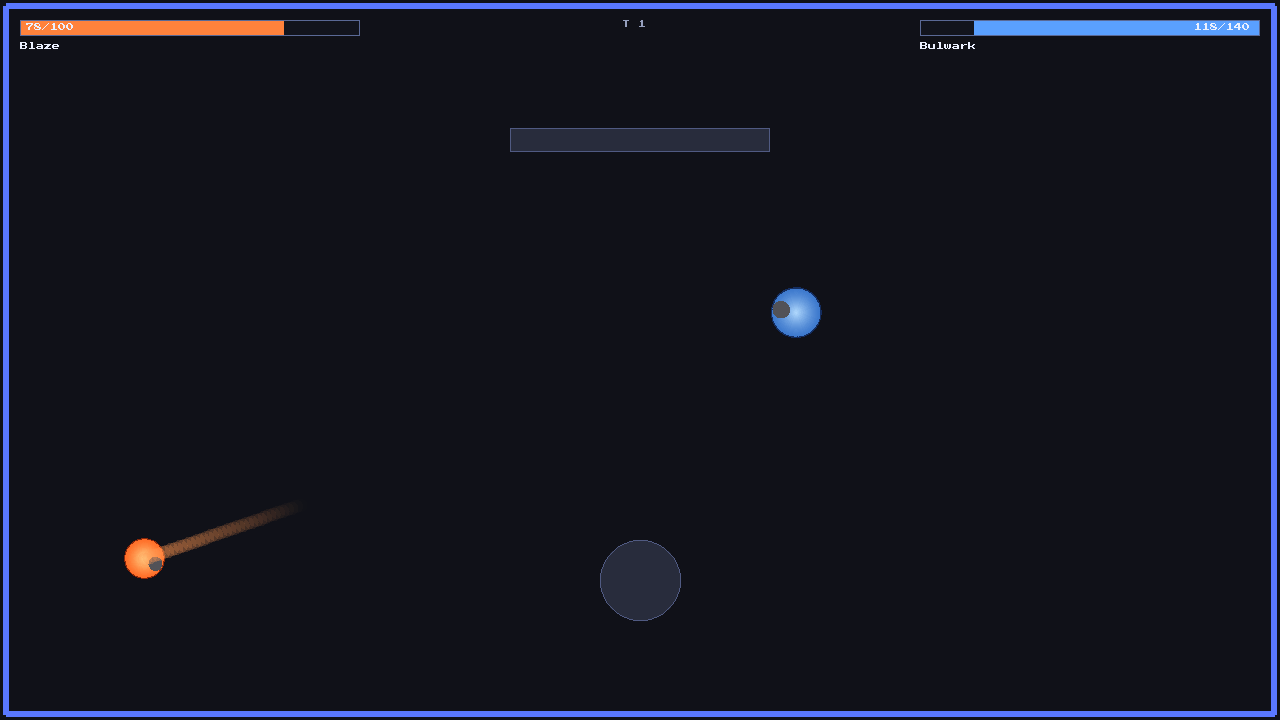
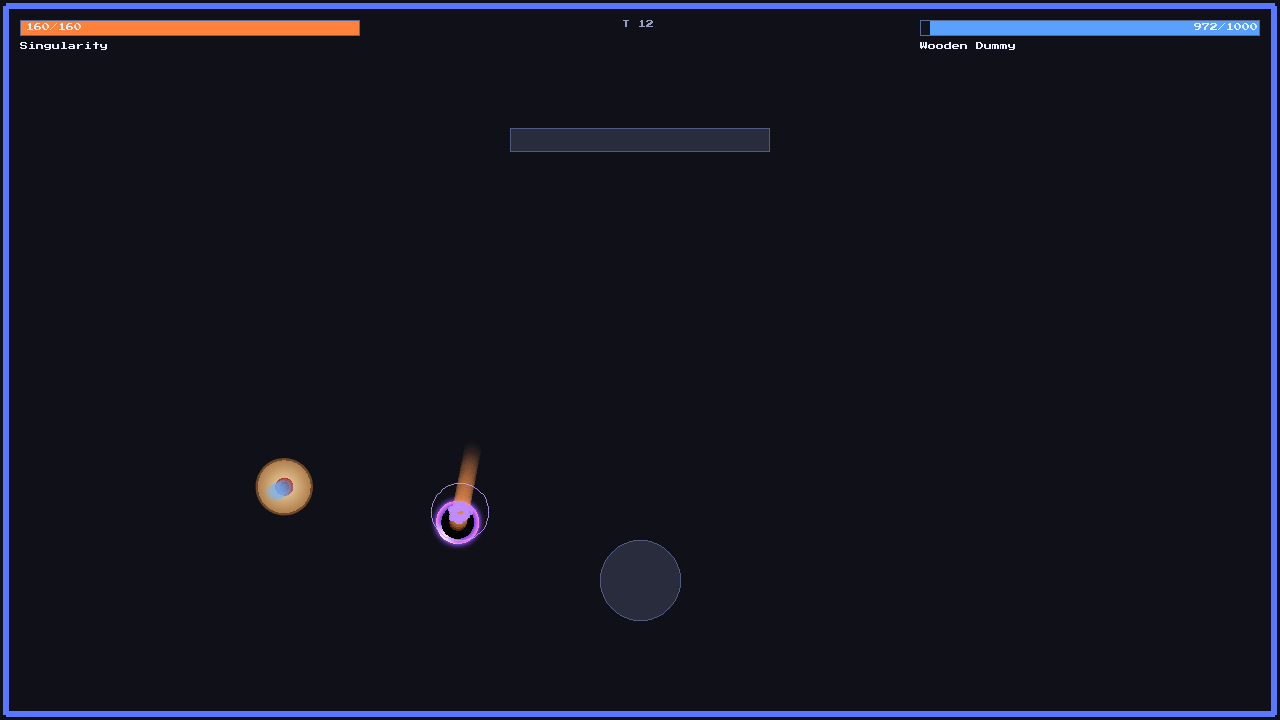
docs: record the black hole checks
CONTENT_FORMAT 补 gravity / omnipull / hitbox.ghost；STATUS 加验证记录
（18 项探针、48 s headless、三张截图）；README 补三个角色的现状与 --shot-at；
docs/screenshot.png 换成黑洞对局。

diff --git a/docs/STATUS.md b/docs/STATUS.md
@@ -39,9 +39,10 @@
 .\build\bin\orbduel.exe                 # 开主菜单（点开始游戏 / 按 Enter 进对局）
 .\build\bin\orbduel.exe --no-menu       # 跳过菜单直接开局
 .\build\bin\orbduel.exe --seed 42       # 固定随机种子，可复现
-.\build\bin\orbduel.exe --char lancer --enemy bulwark --map duel-basic   # 参数只做菜单预选
+.\build\bin\orbduel.exe --char lancer --enemy singularity --map duel-basic   # 参数只做菜单预选
 .\build\bin\orbduel.exe --seconds 10    # 跑 10 秒自动退出
 .\build\bin\orbduel.exe --screenshot out.png   # 第 2 秒截图后退出（在菜单里就截菜单）
+.\build\bin\orbduel.exe --screenshot late.png --shot-at 12   # 第 12 秒截图（看得到大招爆炸）
 .\build\bin\orbduel.exe --lang zh       # 角色/技能名显示中文（默认英文）
 ```
 
@@ -51,6 +52,12 @@
 - Lancer 是橙色瘦长三角（`skin.shape: "triangle"`，**碰撞仍是半径 24 的圆**）：尖角朝速度方向、转向限速 20 rad/s，蓄力时精确对齐虚线，虚线从尖角出发；主菜单头像用的是同一套画法；
 - Lancer 的第二个技能是被动「贯穿」（`content/skills/pierce.json`，`trigger.kind = "passive"`）：自身速度 ≥ 200 时撞到对手**不弹开**，直接穿过、扣 8 血，并把对手沿法线推开 120；一次穿过只结算一次；速度不够时（比如原地蓄力）退回普通碰撞，该弹还弹、该打断还打断；
 - Dash 会**越放越强**（本局累计，重开一局重学）：虚线是「慢慢飘」的（每步约 0.08°），索敌第 5 次最准（延迟 0.3 s → 0.05 s、抖动 6° → 0.5°），蓄力时间第 10 次归零（3 s → 0 s，瞬发），第 15 次起**打不断**；
+- **黑洞（Singularity）**取代原磐石（`content/characters/singularity/`，`hitbox.ghost = true`）：对手能直接穿进它身体，撞击伤害照算；
+- 黑洞被动「吸引」（`content/skills/gravity-well.json`）：280 范围内给对手 460 的向心加速度（保留切向速度，所以会绕着转），
+  对手中心进到 0.72 × 30 = 21.6 以内就判中心伤害（6 → 20 血，随对局时间 60 s 长满），然后把它**随机传送**到场地内任意站得住的位置（离黑洞 ≥ 240，1.5 s 内不重复）；
+- 黑洞大招「万向天引」（`content/skills/omnipull.json`）：冷却到点自动放，范围吸力 2 s（半径 220，加速度 1100），吸完原地爆炸 22 血；
+  期间自己无敌、被动失效；炸完才进冷却。半径/时长/伤害/冷却按施放次数线性成长，第 5 次长满（半径 380、吸 5 s、伤害 55、冷却 5 s）；
+- 新增 **木人桩（Wooden Dummy）**：磐石留下的陪练，1000 血、没有任何技能；
 - 任何技能施放时球上方弹出技能英文名，0.9 s 上浮淡出；
 - 25 秒后开始缩圈（每 10 s 一档，每档 10%，带 1 秒预警），场地一路缩到 0；装不下两个球的那一步立即结算，**HP 高者胜**，同 HP 平局；
 - 5 秒没碰撞会触发「静默吸引」，球会缓慢靠近（肉眼几乎看不出）；
@@ -58,6 +65,17 @@
 - 对局中 `ESC` 回主菜单（**ESC 不再退出进程**）；退出只能在菜单里点 `QUIT GAME` → `YES`。
 
 ![screenshot](screenshot.png)
+
+## 验证记录（2026-11-13，黑洞 + 木人桩）
+
+| 项 | 结果 | 备注 |
+|---|---|---|
+| 全量源码编译（21 个 `.cpp`） | ✅ | `-Wall -Wextra` 零警告 |
+| `tools/validate_content.ps1` | ✅ | `3 characters, 7 skills, 1 maps` |
+| 黑洞自检 `build-verify/gravity_probe.exe` | ✅ | 18 项全过：引力拖进核心 / 掉 6 血 / 传送 ≥ 220 且落在场地内 / 1.5 s 保护期 / 穿透不弹开但 `Hit` 照发（双方都吃撞击伤害）/ 无敌期间扣血无效 / 吸的时候被动失效 / 炸完冷却 10 s / 第 5 次半径 300、伤害 50、冷却 0.5（探针压缩过时长） |
+| `--headless --seconds 130` | ✅ | 48 s 结算：Lancer 死亡，黑洞 128/160；无崩溃（改前 64 s 结算） |
+| 主菜单三人可选 | ✅ | 截图：Lancer / Singularity / Wooden Dummy 三张卡都能切 |
+| 万向天引吸力圈 + 爆炸 | ✅ | 截图：`T 10` 吸力圈半径 220；`T 12` 爆炸环 + 粒子 |
 
 ## 验证记录（2026-11-13，改名 Lancer + 三角形 + 贯穿 + 中英切换）
 
@@ -118,8 +136,9 @@
 
 ## 已知缺口
 
-- 技能里只有「蓄力冲刺」和 `add_speed` 真的生效，其余原语是空的（会在日志里提示一次）。
-- **Bulwark 目前没有任何伤害来源**：碰撞伤害已关，它的护盾 / 减速都还没实现，只能等缩圈把对手耗死。
+- 技能里只有「蓄力冲刺」「贯穿」「引力井」「万向天引」和 `add_speed` 真的生效，其余原语是空的（会在日志里提示一次）。
+- **木人桩没有任何伤害来源**（本来就是陪练）：没技能、不会主动打人，只有撞击伤害（而 `duel-basic` 的 `damageScale = 0`，实际为 0）。
+- 黑洞在 `duel-basic` 上几乎不掉血：碰撞伤害被关掉后，只有 Lancer 的冲刺重击能打到它（实测 12 s 内被打掉 134 血）。
 - 冲刺一次大约 60–100 伤害（0.12 × 相对速度），两下就能打死 140 HP 的对手——数值还没调。
 - 没有热重载；改 JSON 要重启。
 - 缩圈边界压到球的持续伤害（`damagePerSec`）仍未接。

diff --git a/docs/CONTENT_FORMAT.md b/docs/CONTENT_FORMAT.md
@@ -51,6 +51,7 @@ content/
 | `hitbox.shape` | string | ✔ | `"circle"` | v1 只支持圆 |
 | `hitbox.radius` | float | ✔ | 6–120 | 运动碰撞半径 |
 | `hitbox.offset` | float[2] | ✘ | ±40 | 相对贴图中心的偏移 |
+| `hitbox.ghost` | bool | ✘ | 默认 `false` | `true` = 对手可以直接穿进身体（黑洞）；不做分离也不推人，但撞击伤害照算 |
 | `stats.mass` | float | ✔ | 0.2–20 | 质量，影响碰撞后的速度分配 |
 | `stats.restitution` | float | ✔ | 0–1 | 恢复系数（弹性） |
 | `stats.maxHp` | float | ✔ | 10–10000 | 最大生命 |
@@ -181,6 +182,63 @@ content/
 开局读一次，之后每一步看速度：自身速度 ≥ `minSpeed` 就贯穿——撞上对手不分离、不换速度，
 穿过时扣对手 `value` 血，并把对手沿法线推开 `push`。**一次穿过只扣一次血**（物理层按配对去重）。
 速度不够时（例如原地蓄力，速度是 0）退回普通碰撞：该弹还弹、蓄力该打断还打断。
+
+### 2.7 gravity（被动 / 引力井）
+
+`content/skills/gravity-well.json` 是唯一例子。有 `gravity` 块时 `modifiers` 可以为空。
+它不靠撞击生效，而是**每步**给范围内的对手加一个向心加速度：
+
+```json
+"trigger": { "kind": "passive" },
+"gravity": {
+  "range": 280.0, "accel": 460.0, "coreFactor": 0.72,
+  "damage": 6.0, "damageMax": 20.0, "damageRamp": 60.0,
+  "tickInterval": 0.5, "teleportGuard": 1.5, "teleportMinDist": 240.0
+}
+```
+
+| 字段 | 类型 | 说明 |
+|---|---|---|
+| `range` | float 1–2000 | 吸力生效半径；出去就不拉 |
+| `accel` | float 0–6000 | 向心加速度（px/s²）。保留对方切向速度 → 会绕着你转，而不是直线撞上来 |
+| `coreFactor` | float (0,1] | 核心半径 = 本值 × 自己 `hitbox.radius`；进核心才算「中心伤害」 |
+| `damage` | float 0–500 | 第一次中心伤害 |
+| `damageMax` | float 0–500 | 伤害上限；按 `elapsed / damageRamp` 线性长到它（不能小于 `damage`） |
+| `damageRamp` | float 0.1–600 | 多少秒长到 `damageMax` |
+| `tickInterval` | float (0,10] | 核心内两次伤害的最小间隔 |
+| `teleportGuard` | float 0–30 | 被传送走之后的保护期，期间不再吃中心伤害 |
+| `teleportMinDist` | float 0–3000 | 落点离黑洞至少多远（防止刚传走就被吸回去） |
+
+中心伤害之后对手会被随机丢到一个「站得住」的位置：在场地内、不压任何障碍、离黑洞 ≥ `teleportMinDist`。
+采样 64 次都找不到就原地不动——宁可没传送，也不会把球塞进墙里。
+配合 `hitbox.ghost` 才有「吞进去」的观感：不 ghost 时对手根本进不到核心圈。
+
+### 2.8 omnipull（大招 / 万向天引）
+
+```json
+"trigger": { "kind": "cooldown", "cooldown": 10.0 },
+"omnipull": {
+  "rangeFrom": 220.0, "rangeTo": 380.0, "accel": 1100.0,
+  "durationFrom": 2.0, "durationTo": 5.0,
+  "damageFrom": 22.0, "damageTo": 55.0,
+  "cooldownFrom": 10.0, "cooldownTo": 5.0,
+  "castsToMax": 5, "invincible": true, "suppressPassive": true
+}
+```
+
+冷却到点后开始吸：范围内持续给对手加速度 → 吸 `duration` 秒 → **原地爆炸**（半径 = 本次吸力半径，命中范围内对手）
+→ 这时才进冷却。期间自己无敌、被动失效。四个量按「本局已经放过几次」线性成长，**第 `castsToMax` 次就长满**：
+
+| 字段 | 说明 |
+|---|---|
+| `rangeFrom` → `rangeTo` | 吸力/爆炸半径 |
+| `durationFrom` → `durationTo` | 吸多久才炸 |
+| `damageFrom` → `damageTo` | 爆炸伤害 |
+| `cooldownFrom` → `cooldownTo` | 炸完的冷却（不能大于 `cooldownFrom`，否则越放越慢） |
+| `accel` | 吸力加速度，不成长 |
+| `castsToMax` | 放几次长满（第 1 次 = `*From`，第 `castsToMax` 次 = `*To`） |
+| `invincible` | 吸的过程中免伤害（默认 `true`） |
+| `suppressPassive` | 吸的过程中自己的被动失效（默认 `true`） |
 
 ---
 
